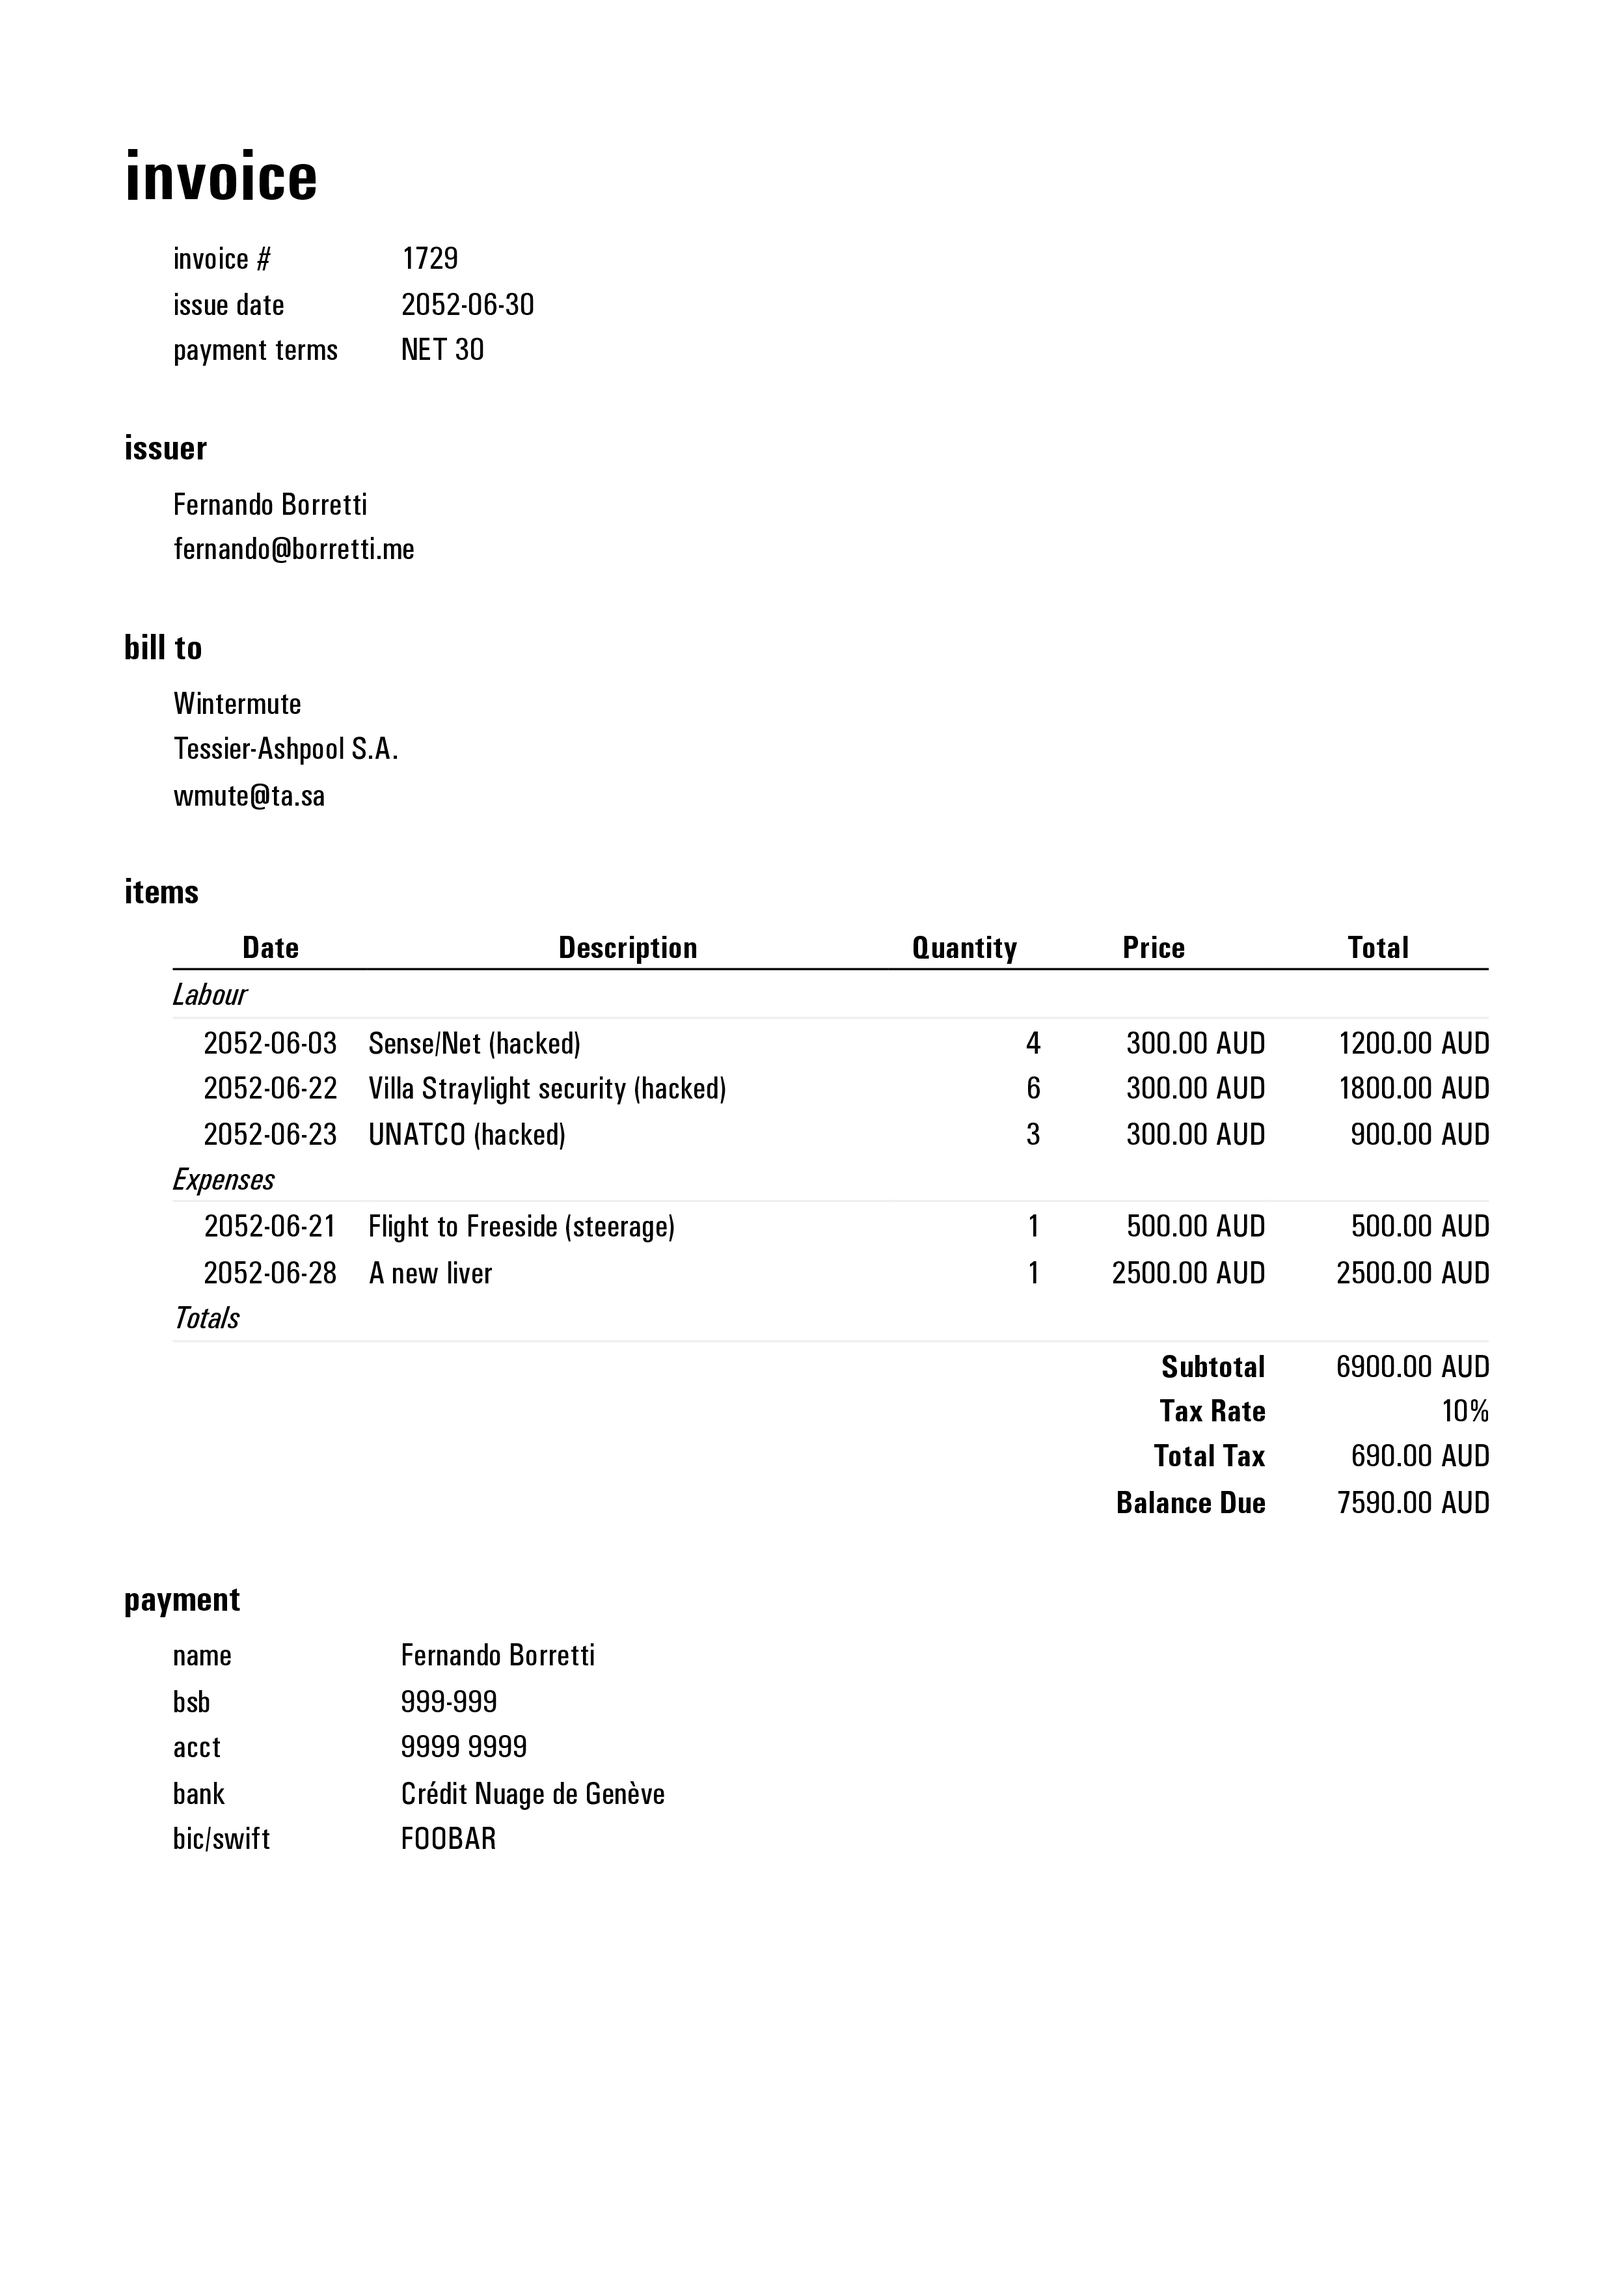
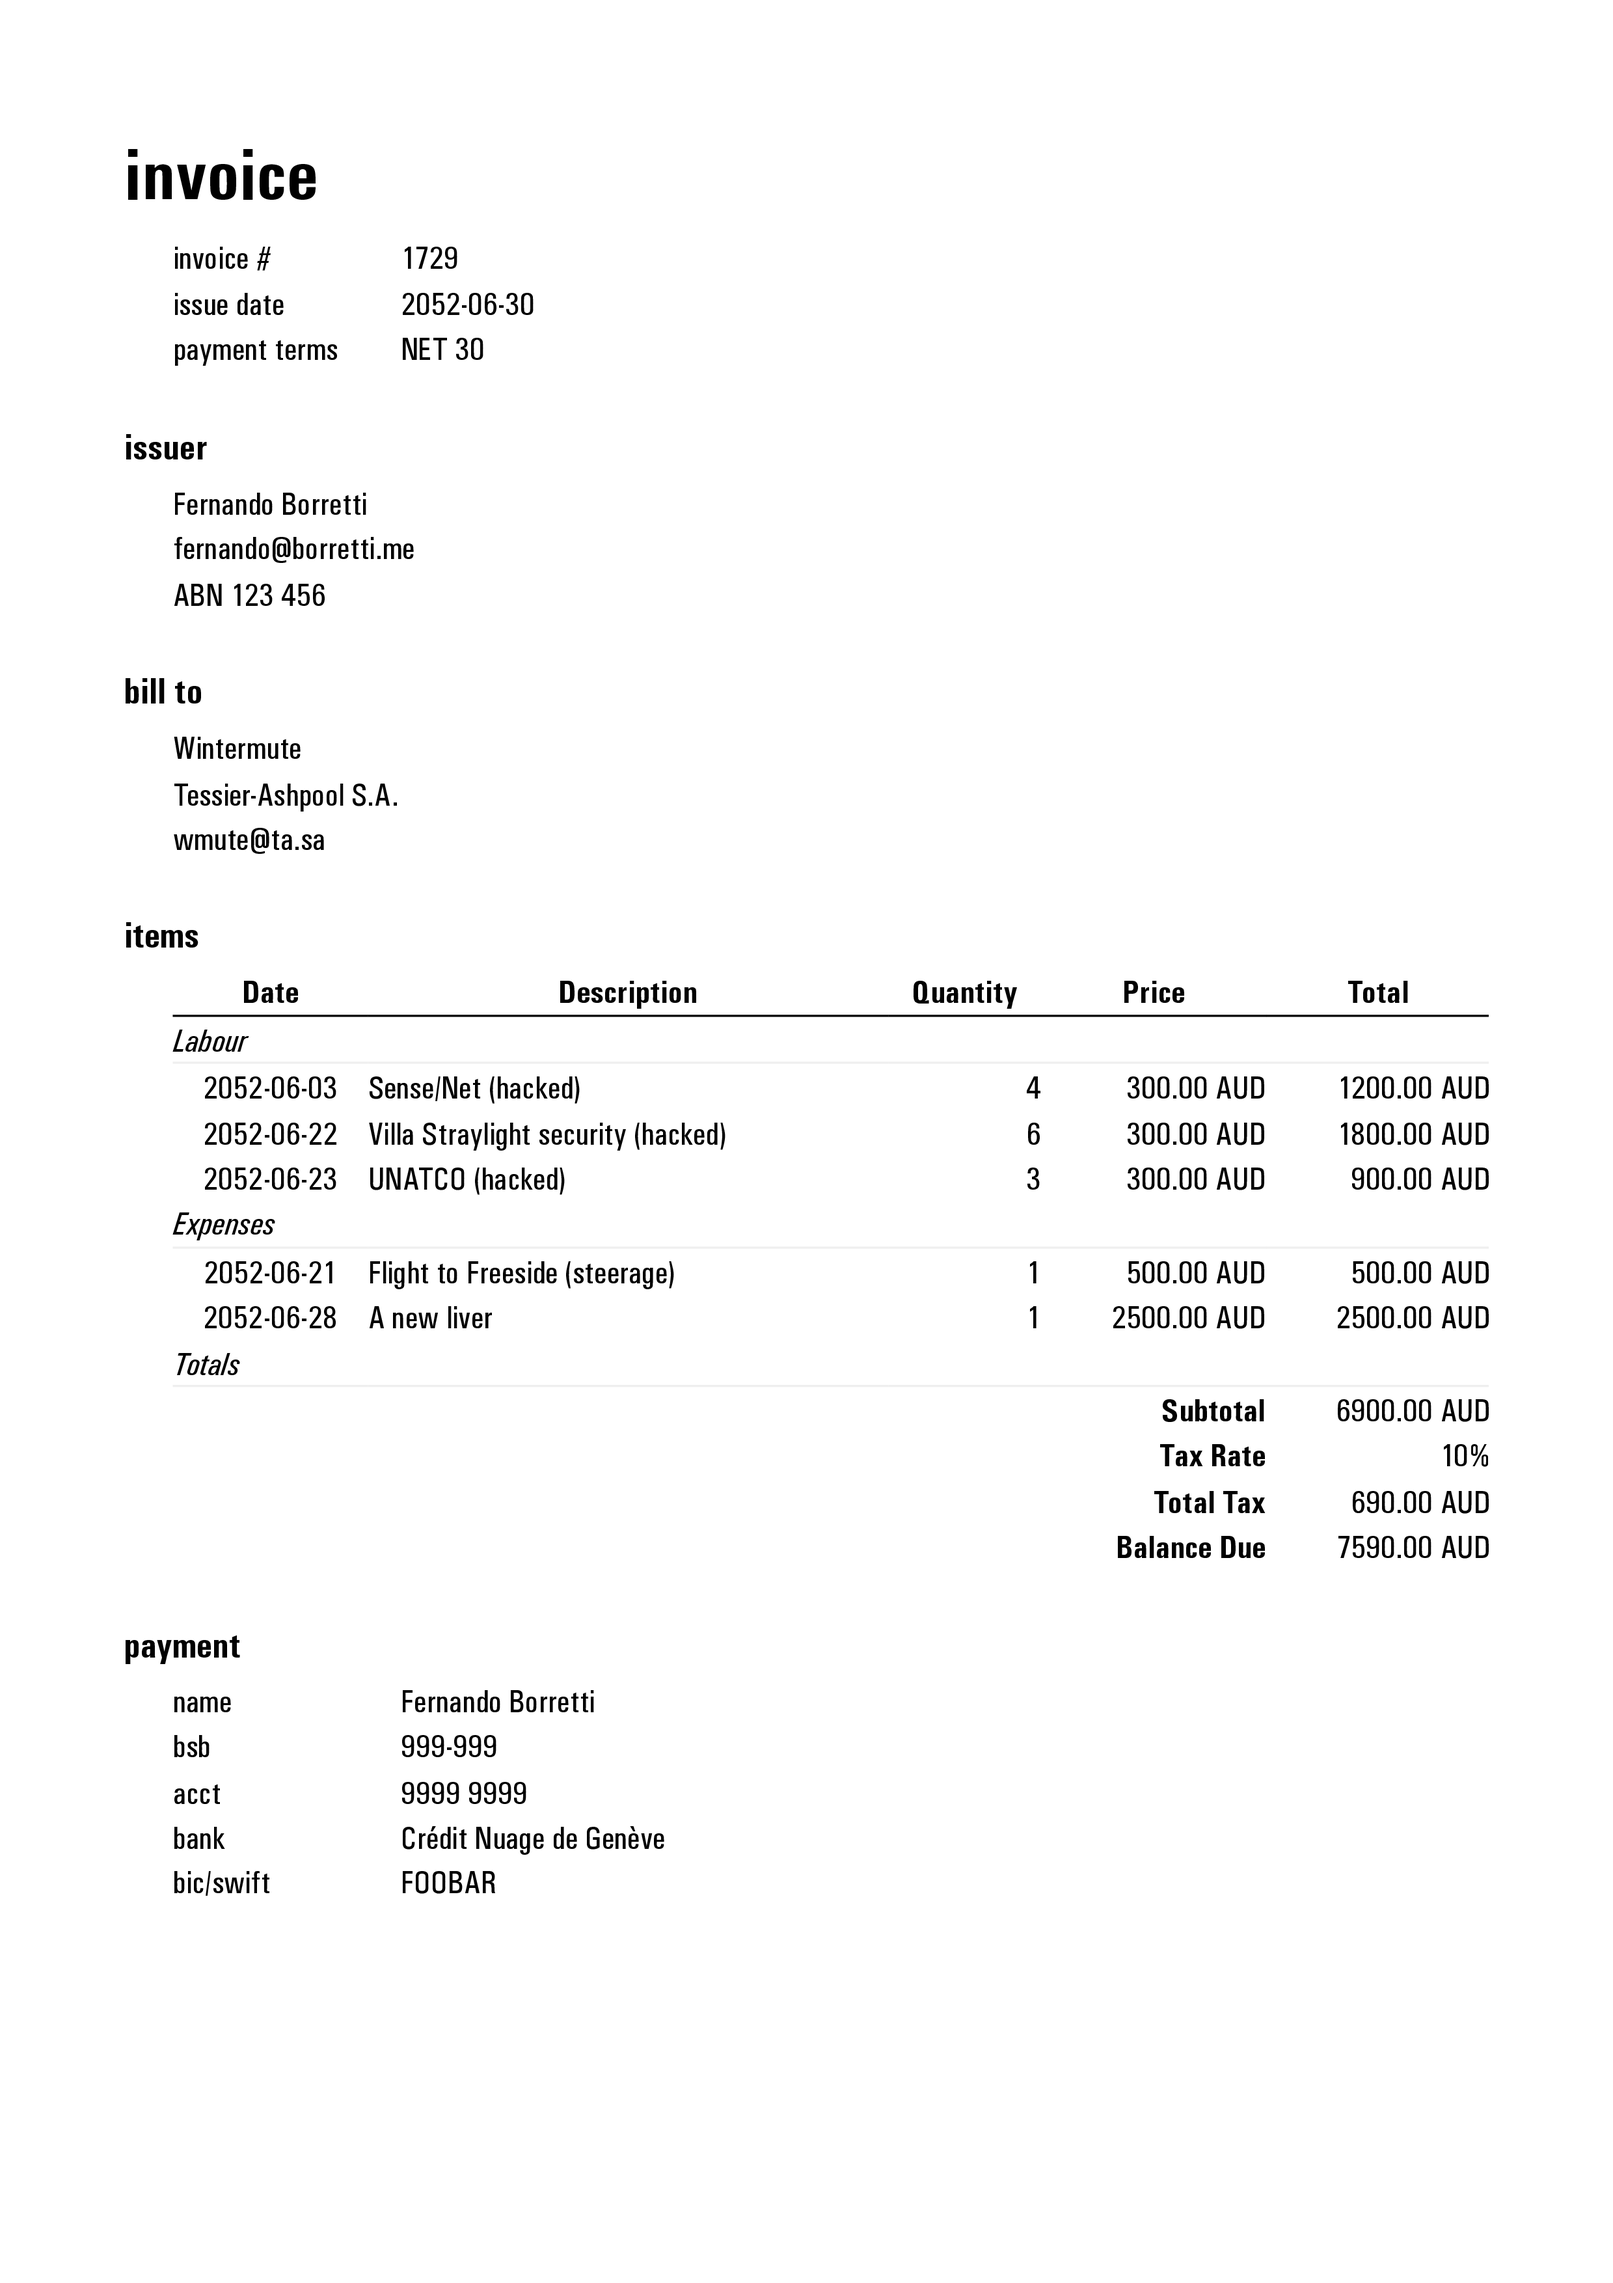
add ABN support

diff --git a/src/types.rs b/src/types.rs
@@ -39,6 +39,7 @@ pub struct Metadata {
 pub struct Issuer {
     pub name: String,
     pub email: String,
+    pub abn: String,
 }
 
 #[derive(Debug, Deserialize)]
@@ -141,6 +142,7 @@ mod tests {
             issuer: Issuer {
                 name: "Test Issuer".to_string(),
                 email: "issuer@test.com".to_string(),
+                abn: "123 456".to_string(),
             },
             recipient: Recipient {
                 name: "Test Recipient".to_string(),

diff --git a/src/render.rs b/src/render.rs
@@ -74,6 +74,7 @@ pub fn render_html(invoice: &Invoice) -> Markup {
                                         (invoice.issuer.email)
                                     }
                                 }
+                                div class="line" { "ABN " (invoice.issuer.abn) }
                             }
                         }
                     }
